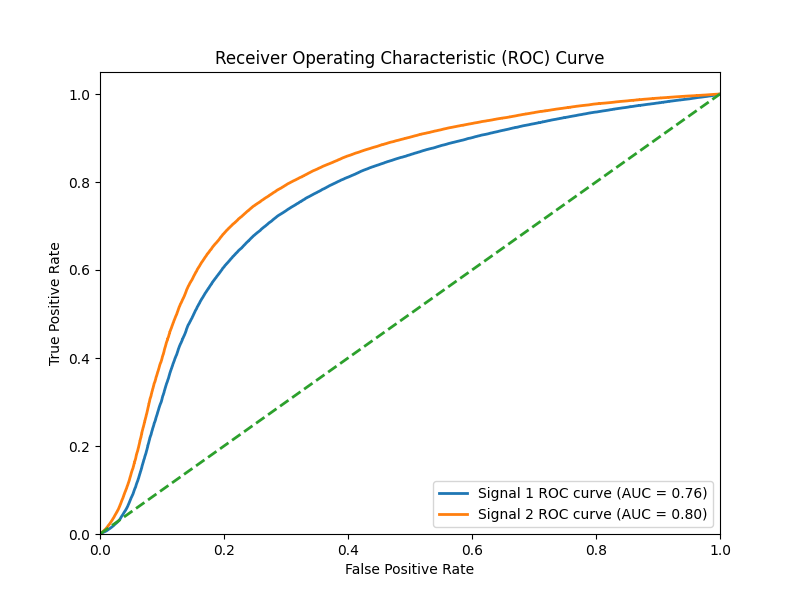
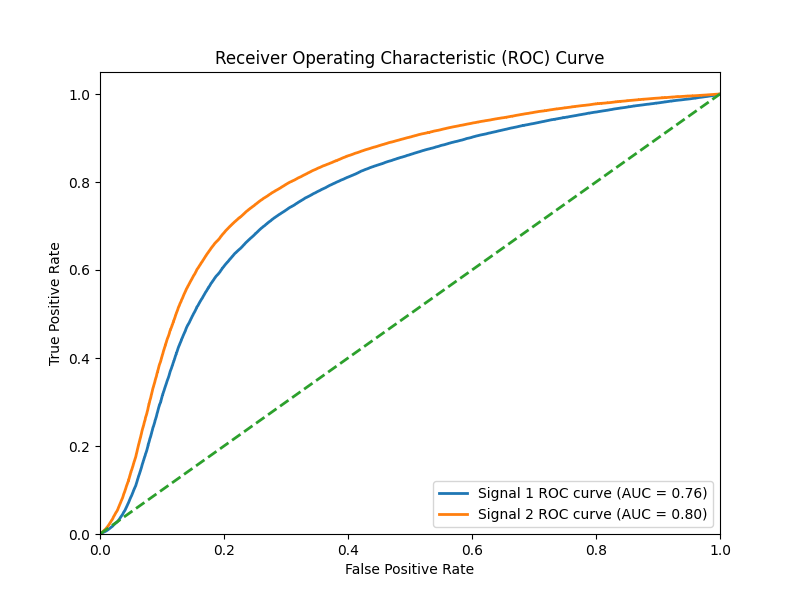
Testing with minmax scaling and 84, 14 layer dimensions

diff --git a/test.py b/test.py
@@ -205,8 +205,8 @@ selected_values = loss_bkg_all_total[cumulative_sum <= threshold]
 nbins = 30
 fig, axes = plt.subplots(figsize=(8,6))
 axes.hist([bkg.mj1j2], nbins, range=(2700, 5000), density=1, histtype='step', label=['No selection'], stacked=True, alpha=1)
-axes.hist([bkg.mj1j2[cumulative_sum >= 0.85 * total_sum]], nbins, range=(2700, 5000), density=1, histtype='step', label=['85%'], stacked=True, alpha=0.8)
-axes.hist([bkg.mj1j2[cumulative_sum >= 0.5 * total_sum]], nbins, range=(2700, 5000), density=1, histtype='step', label=['50%'], stacked=True, alpha=0.6)
+axes.hist([bkg.mj1j2[cumulative_sum <= 0.85 * total_sum]], nbins, range=(2700, 5000), density=1, histtype='step', label=['85%'], stacked=True, alpha=0.8)
+axes.hist([bkg.mj1j2[cumulative_sum <= 0.5 * total_sum]], nbins, range=(2700, 5000), density=1, histtype='step', label=['50%'], stacked=True, alpha=0.6)
 axes.set_xlabel(r"$m_{jet_1•jet_2}$ [GeV]")
 axes.set_ylabel("Events")
 axes.set_xlim(2700, 5000)
